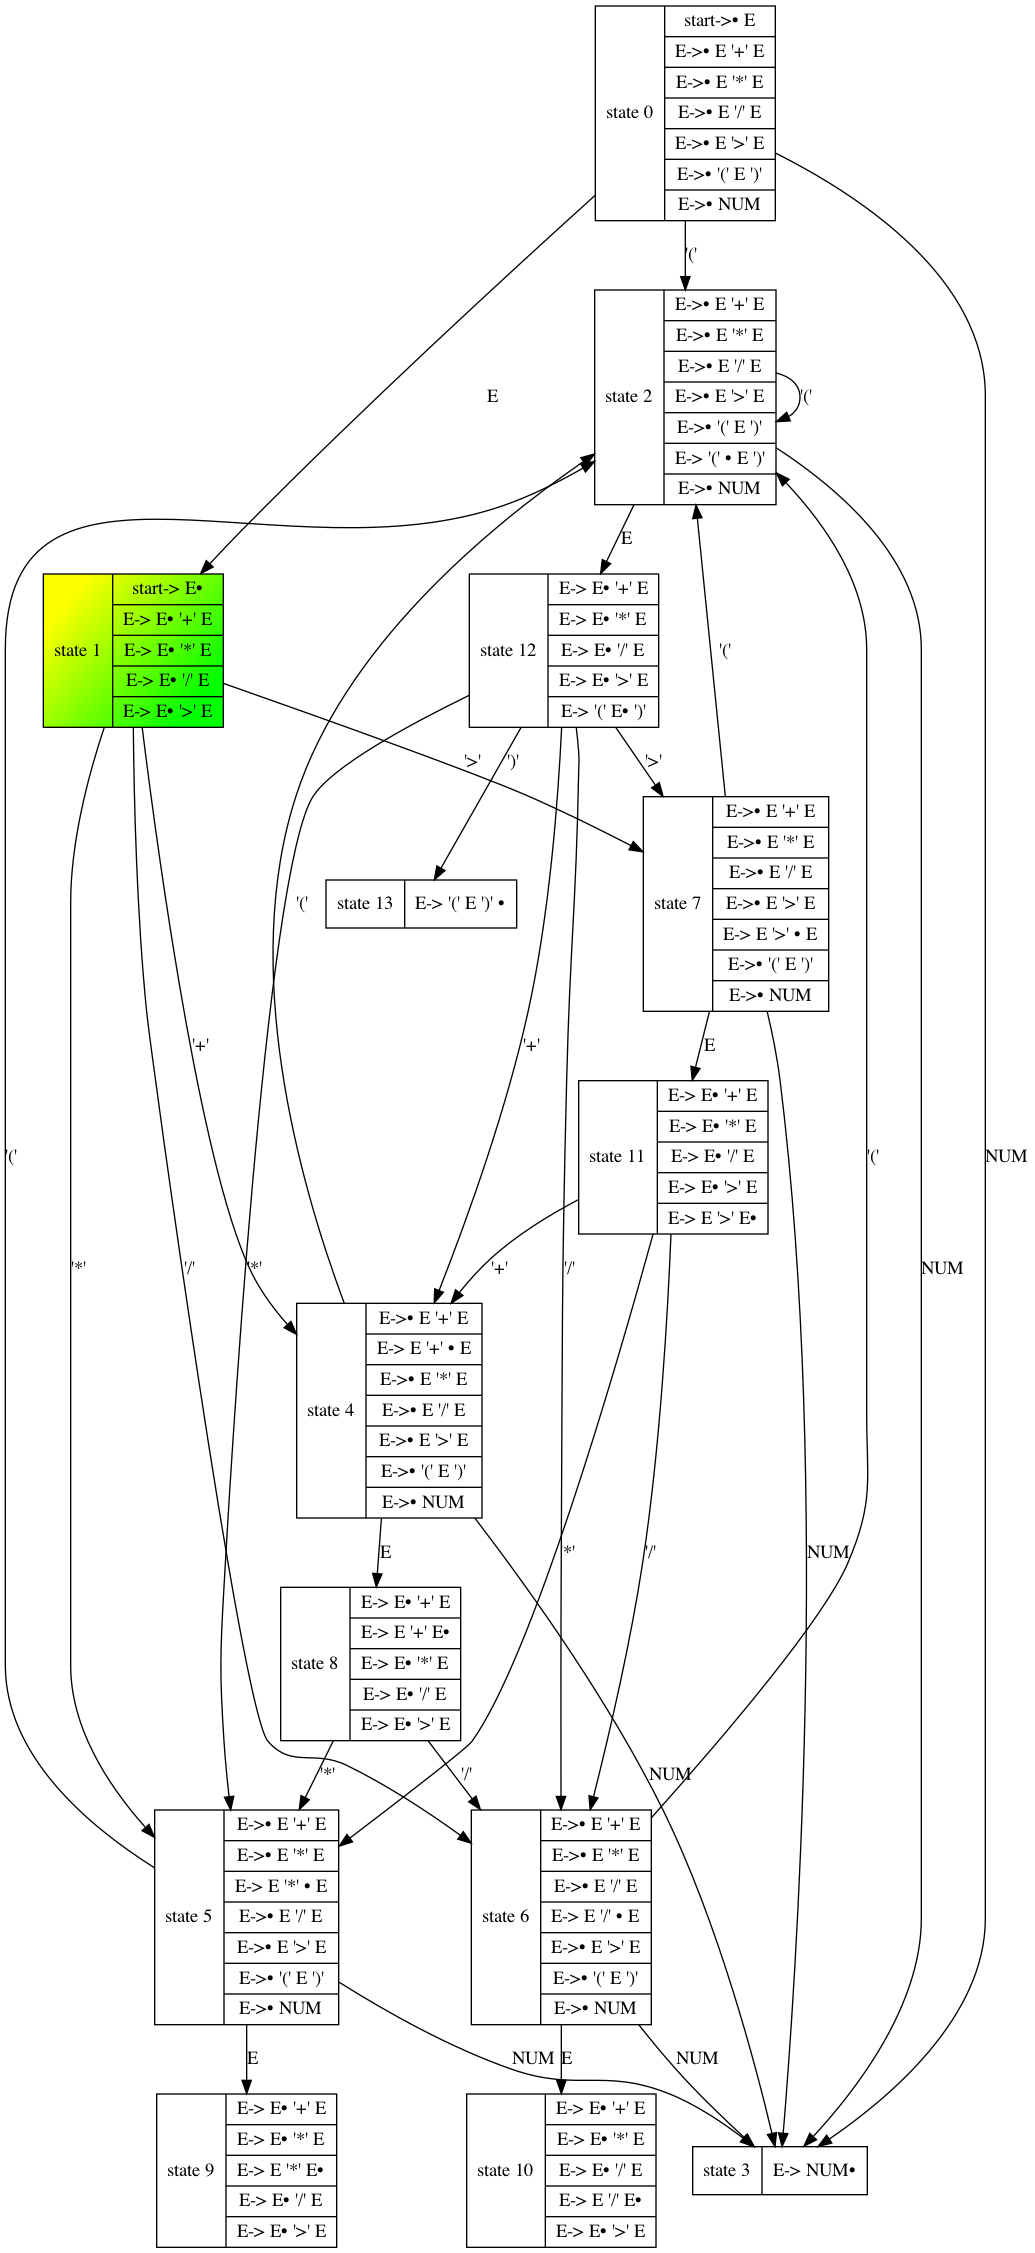
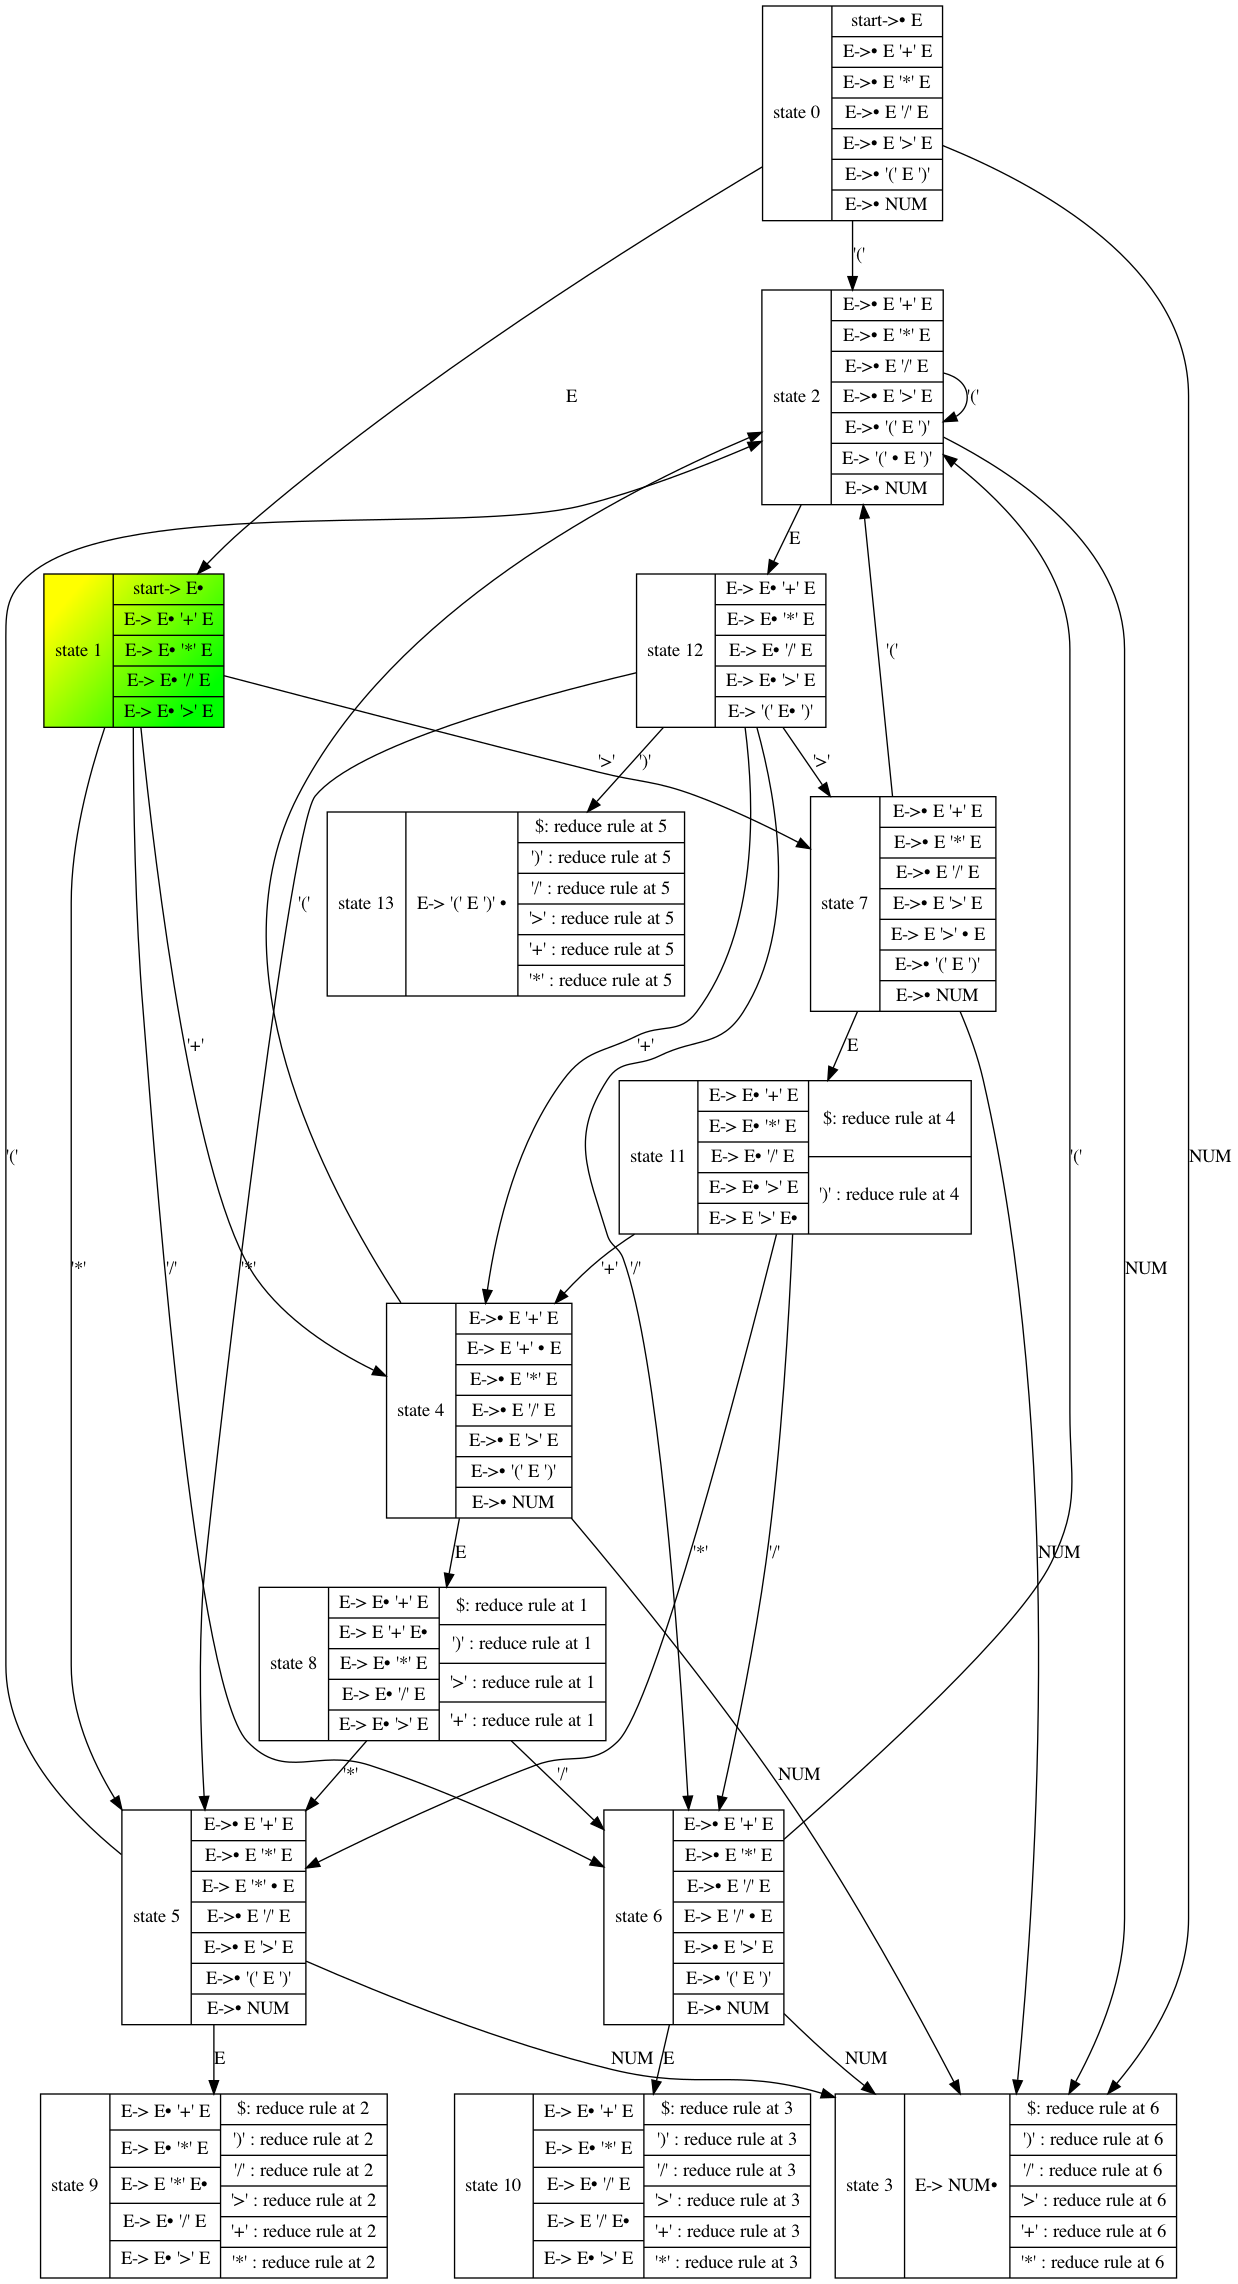
*: add reduce graph

diff --git a/LALR/LALRDraw.go b/LALR/LALRDraw.go
@@ -6,6 +6,7 @@ package lalr
 
 import (
 	"fmt"
+	"strings"
 
 	graph "github.com/acekingke/yaccgo/Graph"
 	utils "github.com/acekingke/yaccgo/Utils"
@@ -21,6 +22,8 @@ func (lalr *LALR1) DrawGrammar(tab [][]int) *gographviz.Graph {
 	}
 
 	for stateNum, r := range tab {
+		res := "|{%s}\""
+		look := []string{}
 		for SymNum, d := range r {
 			if d != lalr.GenErrorCode() &&
 				d != lalr.GenAcceptCode() && d >= 0 {
@@ -34,9 +37,21 @@ func (lalr *LALR1) DrawGrammar(tab [][]int) *gographviz.Graph {
 				n.Attrs.Add("style", "filled")
 				n.Attrs.Add("fillcolor", "\"yellow:green\"")
 				n.Attrs.Add("gradientangle", "315")
+			} else if d < 0 {
+				look = append(look, fmt.Sprintf("%s: reduce rule at %d",
+					utils.EscapeDotGraph(utils.RemoveTempName(lalr.G.Symbols[SymNum].Name)), -d))
+
 			}
 
 		}
+		if len(look) != 0 {
+			n := graphInst.Nodes.Lookup[fmt.Sprintf("state_%d", stateNum)]
+			res = fmt.Sprintf(res, strings.Join(look, "|"))
+			from := n.Attrs["label"]
+			from = from[0 : len(from)-1] // remove last "
+			n.Attrs["label"] = from + res
+		}
+
 	}
 	return graphInst
 }

diff --git a/Graph/Graph.go b/Graph/Graph.go
@@ -61,7 +61,7 @@ func SaveGraph(path string, graph *gographviz.Graph) error {
 	}
 	defer file.Close()
 	output := graph.String()
-	//fmt.Println(output)
+	fmt.Println(output)
 	cmd := exec.Command("dot", "-Tpng")
 	cmd.Stdin = strings.NewReader(output)
 	cmd.Stdout = file
